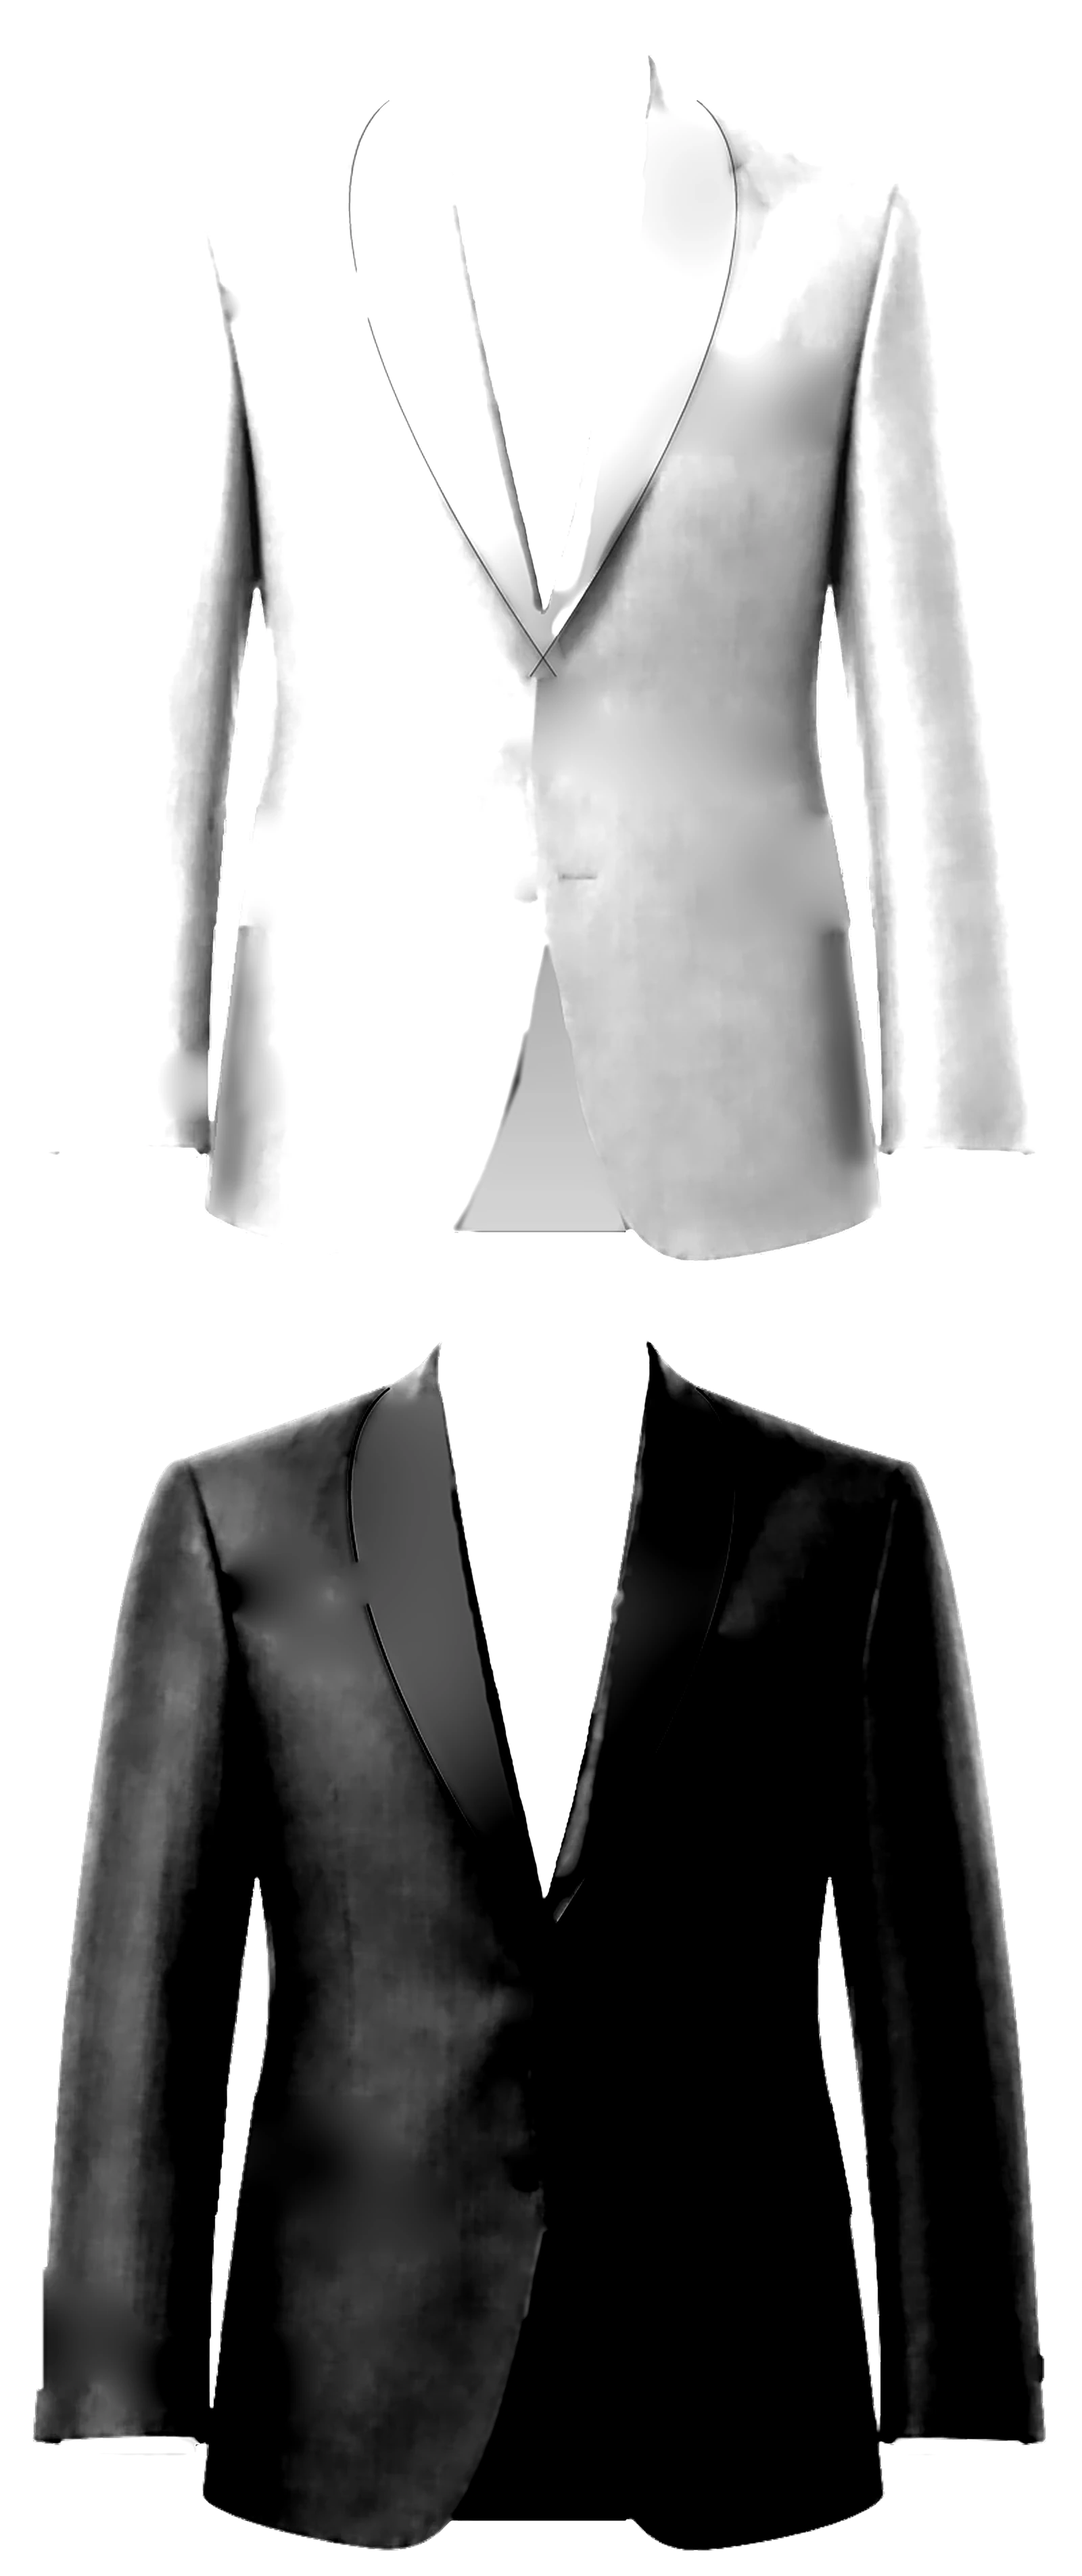
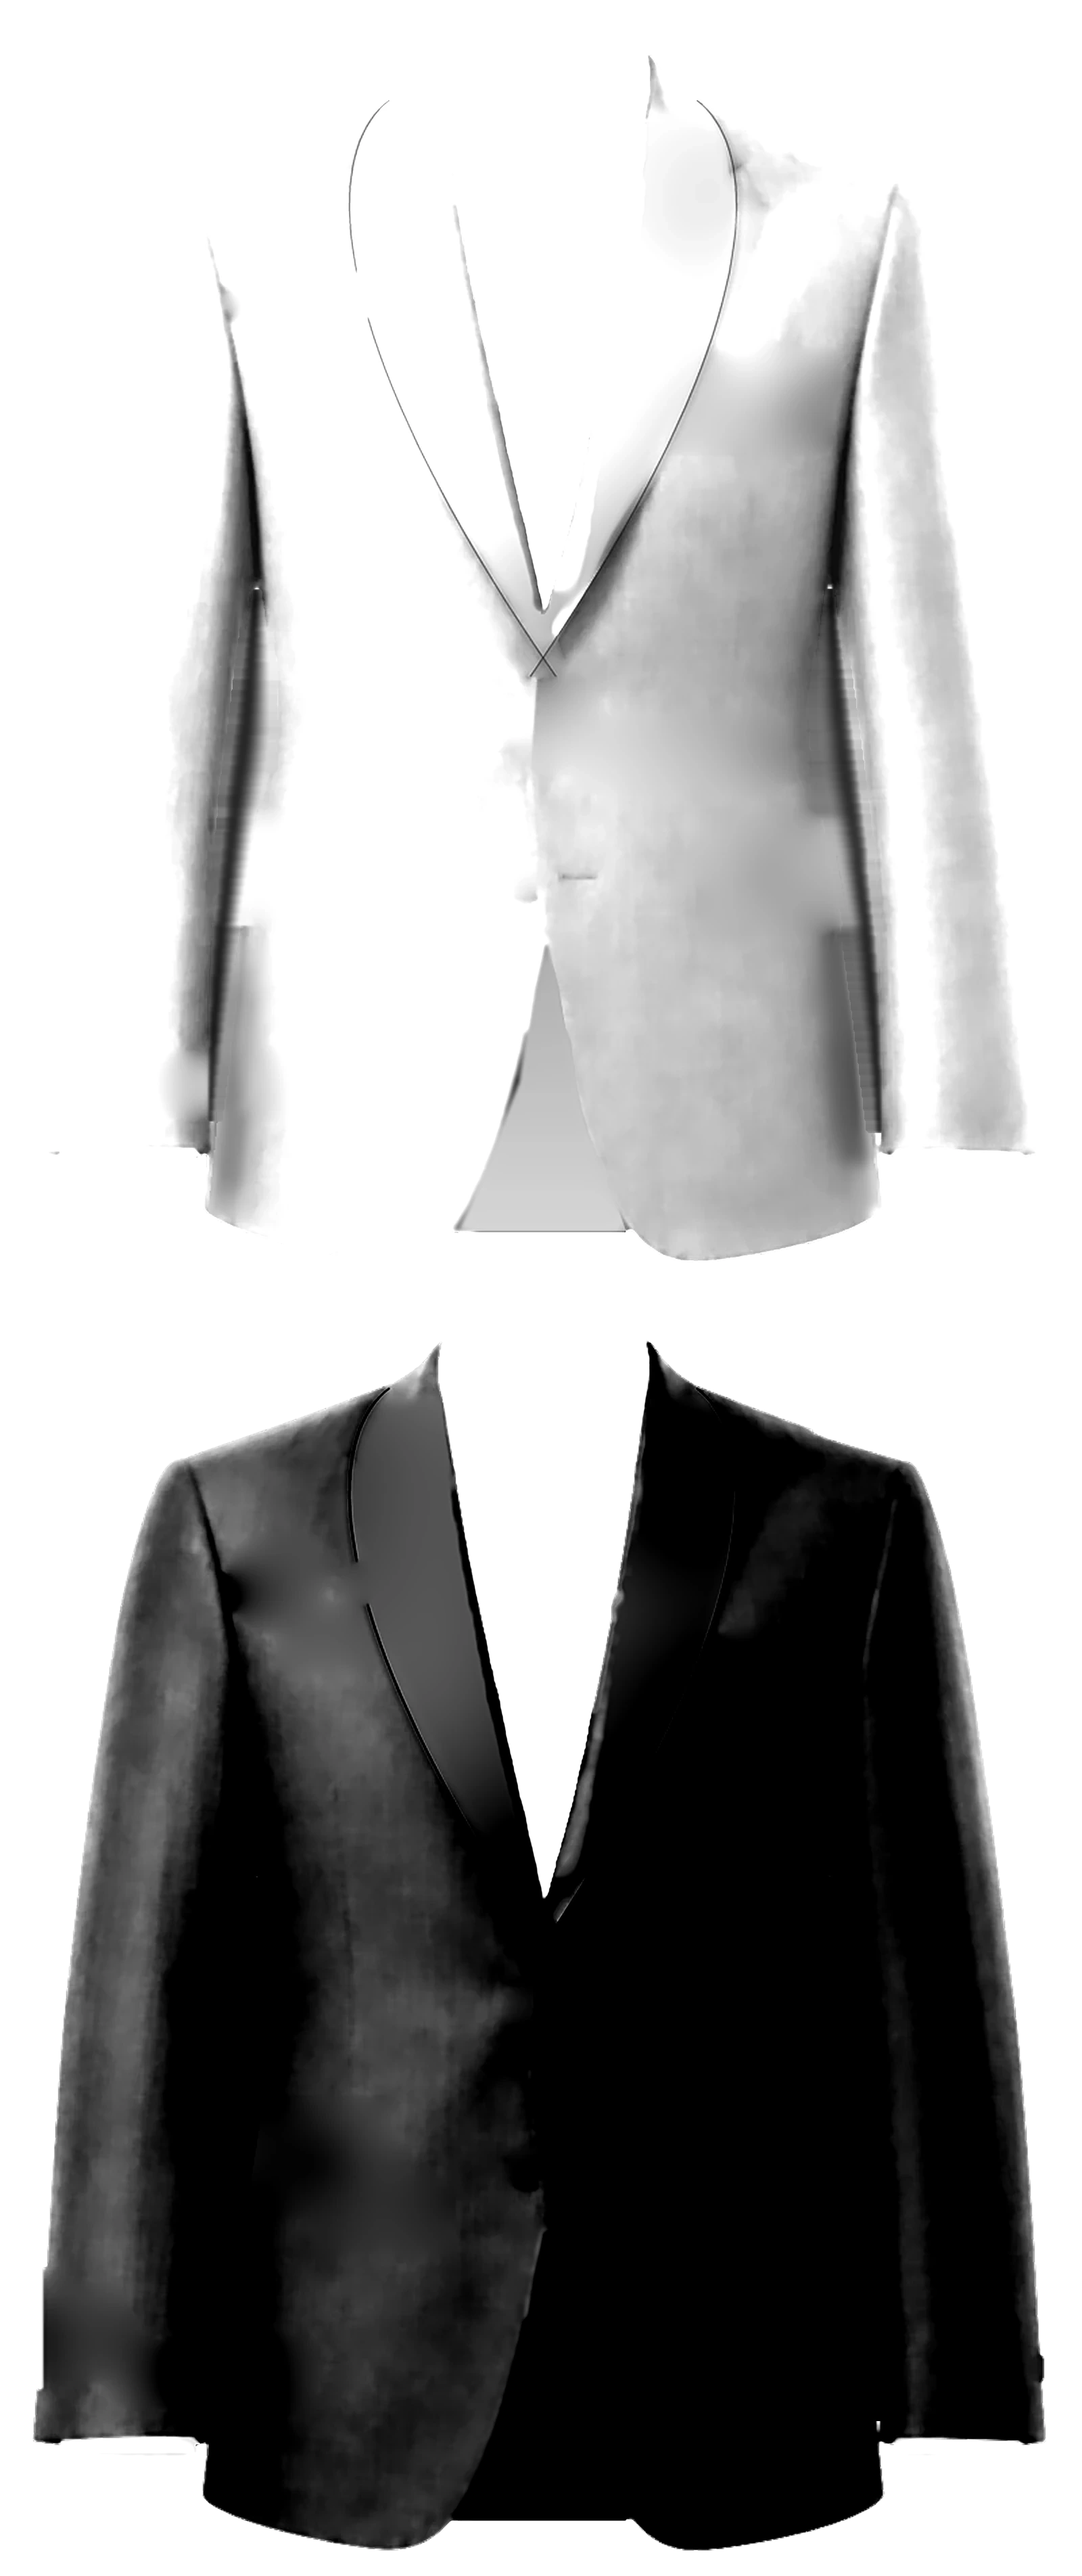
Jacket picture: lower pockets run under the sleeve, clean lapel edge (#707)
* Your Jacket picture: folded pants under the jacket for suits, own pictures for pants and vest

Full suit shows the pants folded flat under the jacket (classic look until
the pants are designed, then belt loops, back pocket and cuff follow the
picks). Three-piece adds a classic buttoned vest that only follows the
fabric. Pants Only and Vest Only get their own picture. The small picture
now also shows on the Pants and Vest pages.

Claude-Session: https://claude.ai/code/session_01Y2WUq5hqaJTnuw3wxrj3PD

* Your Jacket picture: clean back and inside views

Back and inside views stay inside a tidied outline: no wisps under the
sleeve ends, a smooth hem (vent lines no longer hang below it) and a
rounded neck with the collar running into the shoulder seams. No floating
shirt collar outline from behind. The pants band only gets a backdrop on
the front view, so back and inside have no box behind the pants.

Claude-Session: https://claude.ai/code/session_01Y2WUq5hqaJTnuw3wxrj3PD

* Your Jacket picture: back and inside views built from Daniel's reference photos

Back: scripts/make_jacket_photo_back.py turns the back reference into a base
photo (shirt collar and cuffs) and two cloth shadings (with the photo's side
vents, and with them painted out for no vent / centre vent). Sleeve buttons
are painted out and drawn from the customer's picks.
Inside: scripts/make_jacket_photo_inside.py does the same for the inside
[…]

diff --git a/jacket-studio.js b/jacket-studio.js
@@ -43,20 +43,20 @@
   const MODE_KEY = "scottSuitsDesignMode";
   const reduceMotion = window.matchMedia && window.matchMedia("(prefers-reduced-motion: reduce)").matches;
   const PHOTO = "./assets/jacket-photo-front.webp?v=17";
-  const SHADE = { front: "./assets/jacket-photo-shade-front.webp?v=17", back: "./assets/jacket-photo-shade-back.webp?v=16" };
+  const SHADE = { front: "./assets/jacket-photo-shade-front.webp?v=18", back: "./assets/jacket-photo-shade-back.webp?v=16" };
   // The photo has notch lapels; the other styles have their own front shading
   // with the lapels redrawn (scripts/make_jacket_photo.py).
   const SHADE_LAPEL = {
-    "Peak Lapel": "./assets/jacket-photo-shade-front-peak.webp?v=14",
-    "Semi-Peak Lapel": "./assets/jacket-photo-shade-front-peak.webp?v=14",
-    "Diamond Lapel": "./assets/jacket-photo-shade-front-diamond.webp?v=14",
-    "Shawl": "./assets/jacket-photo-shade-front-shawl.webp?v=14",
-    "Arc Lapel": "./assets/jacket-photo-shade-front-shawl.webp?v=14",
+    "Peak Lapel": "./assets/jacket-photo-shade-front-peak.webp?v=15",
+    "Semi-Peak Lapel": "./assets/jacket-photo-shade-front-peak.webp?v=15",
+    "Diamond Lapel": "./assets/jacket-photo-shade-front-diamond.webp?v=15",
+    "Shawl": "./assets/jacket-photo-shade-front-shawl.webp?v=15",
+    "Arc Lapel": "./assets/jacket-photo-shade-front-shawl.webp?v=15",
   };
   // Double breasted fronts use their own photo (peak lapels, the front
   // crossing over; scripts/make_jacket_photo_db.py).
   const PHOTO_ARC = "./assets/jacket-photo-front-arc.webp?v=15";
-  const SHADE_ARC = "./assets/jacket-photo-shade-front-arc-photo.webp?v=17";
+  const SHADE_ARC = "./assets/jacket-photo-shade-front-arc-photo.webp?v=18";
   // The lining seen in the Arc photo's opening below the second button (in
   // picture space; scripts/make_jacket_photo_arc.py LINING, mapped).
   // The same opening on the main photo (traced from its shading).
@@ -76,16 +76,24 @@
     sb: [[520, 200, 603], [560, 196, 607], [600, 188, 613], [640, 181, 621], [680, 175, 629], [720, 170, 632], [760, 165, 638], [800, 161, 642]],
     arc: [[520, 217, 580], [560, 211, 586], [600, 204, 593], [640, 198, 598], [680, 193, 602], [720, 190, 607], [760, 187, 611], [800, 184, 615]],
   };
+  // The sleeve's inner edge on the same rows. The sliver between the body and
+  // the sleeve is cloth in shadow (scripts/patch_front_shading.py), so the
+  // pockets run on across it and stop under the sleeve.
+  const SLEEVE_SIDES = {
+    sb: [[520, 177, 626.5], [560, 171.5, 631.5], [600, 167, 636.5], [640, 163.5, 640.5], [680, 160, 644.5], [720, 157, 647.5], [760, 155, 650.5], [800, 154, 651.5]],
+    db: [[520, 178, 625.5], [560, 173, 629.5], [600, 168, 634.5], [640, 163, 638.5], [680, 160, 641.5], [720, 158, 644.5], [760, 156, 647.5], [800, 155, 648.5]],
+    arc: [[520, 195.5, 602.5], [560, 194, 604.5], [600, 192, 605.5], [640, 190, 606.5], [680, 189, 607.5], [720, 189, 608], [760, 187, 611], [800, 184, 615]],
+  };
   // Where the chest meets the sleeve on the viewer's right: [y, x].
   const CHEST_SIDE = {
     sb: [[220, 642], [300, 634], [380, 620]],
     arc: [[220, 610], [300, 601], [380, 593]],
   };
-  const SHADE_DB = "./assets/jacket-photo-shade-front-db.webp?v=12";
+  const SHADE_DB = "./assets/jacket-photo-shade-front-db.webp?v=13";
   const SHADE_DB_LAPEL = {
-    "Diamond Lapel": "./assets/jacket-photo-shade-front-db-diamond.webp?v=12",
-    "Shawl": "./assets/jacket-photo-shade-front-db-shawl.webp?v=12",
-    "Arc Lapel": "./assets/jacket-photo-shade-front-db-shawl.webp?v=12",
+    "Diamond Lapel": "./assets/jacket-photo-shade-front-db-diamond.webp?v=13",
+    "Shawl": "./assets/jacket-photo-shade-front-db-shawl.webp?v=13",
+    "Arc Lapel": "./assets/jacket-photo-shade-front-db-shawl.webp?v=13",
   };
   const isDB = (v) => /^Double/.test(String(v.frontbutton || ""));
   // One fabric tile (two swatches, ~16 cm of cloth) in picture pixels.
@@ -898,12 +906,8 @@
     // chosen lining shows there the same way, on top of the cloth shading.
     if (!db && !arc && showLining) openingLining(SB_OPENING, 330, 690, 470, 912);
 
-    // The lapel's outer edge where the mockup's labels were painted out
-    // (diamond and shawl lapels have their own edge in their shading).
-    if (!db && v.collar !== "Diamond Lapel" && v.collar !== "Shawl" && v.collar !== "Arc Lapel") {
-      line(g, [[541, 196], [482, 338]], "rgba(0,0,0,0.32)", 1.3);
-      line(g, [[539.5, 196], [480.5, 338]], "rgba(255,255,255,0.07)", 0.9);
-    }
+    // The lapel's outer edge beside the chest pocket is in the shading itself
+    // (scripts/patch_front_shading.py); no line is drawn over it.
 
     // Lapel width.
     const lapF = lapelFactor(v), lapS = lapelSides(v, db, arc);
@@ -975,8 +979,11 @@
     // front. Each one runs from the front out past the side of the body and
     // is cut off where the body turns away under the sleeve.
     const sides = BODY_SIDES[arcFront ? "arc" : "sb"];
-    let bodyD = "M" + sides.map((r) => r[1] + "," + r[0]).join(" L");
-    bodyD += " L" + sides.slice().reverse().map((r) => r[2] + "," + r[0]).join(" L") + " Z";
+    // Daniel 2026-11-22: "this got cut". The pocket no longer stops at the
+    // body's side: it carries on under the sleeve.
+    const sleeves = SLEEVE_SIDES[arcFront ? "arc" : db ? "db" : "sb"];
+    let bodyD = "M" + sleeves.map((r) => r[1] + "," + r[0]).join(" L");
+    bodyD += " L" + sleeves.slice().reverse().map((r) => r[2] + "," + r[0]).join(" L") + " Z";
     onCloth(g, (g) => {
       g.save();
       g.clip(new Path2D(bodyD));
@@ -1036,11 +1043,16 @@
         g.globalCompositeOperation = "source-atop";
         const TURN = 34;
         for (let y = 540; y < 800; y += 4) {
-          [[lerpRows(sides, y + 2, 1), 1], [lerpRows(sides, y + 2, 2), -1]].forEach((q) => {
-            const gr = g.createLinearGradient(q[0], 0, q[0] + q[1] * TURN, 0);
-            gr.addColorStop(0, "rgba(0,0,0,0.42)"); gr.addColorStop(0.45, "rgba(0,0,0,0.16)"); gr.addColorStop(1, "rgba(0,0,0,0)");
+          // From under the sleeve, across the side of the body, fading out
+          // toward the front.
+          [[lerpRows(sleeves, y + 2, 1), lerpRows(sides, y + 2, 1), 1], [lerpRows(sleeves, y + 2, 2), lerpRows(sides, y + 2, 2), -1]].forEach((q) => {
+            const from = q[0] - q[2] * 2, to = q[1] + q[2] * TURN, len = Math.abs(to - from);
+            const tb = Math.min(0.9, Math.abs(q[1] - from) / len);
+            const gr = g.createLinearGradient(from, 0, to, 0);
+            gr.addColorStop(0, "rgba(0,0,0,0.42)"); gr.addColorStop(tb, "rgba(0,0,0,0.42)");
+            gr.addColorStop(tb + (1 - tb) * 0.45, "rgba(0,0,0,0.16)"); gr.addColorStop(1, "rgba(0,0,0,0)");
             g.fillStyle = gr;
-            g.fillRect(Math.min(q[0], q[0] + q[1] * TURN), y, TURN, 4.2);
+            g.fillRect(Math.min(from, to), y, len, 4.2);
           });
         }
         g.globalCompositeOperation = "source-over";

diff --git a/index.html b/index.html
@@ -1360,7 +1360,7 @@
 <!-- Your Jacket peek: a small read-only picture of the jacket beside the
      Jacket questions; tap to see it big (Daniel, 2026-11-19). The old
      clickable "Interactive Jacket" mode is no longer offered. -->
-<script src="./jacket-studio.js?v=20261122tieedge"></script>
+<script src="./jacket-studio.js?v=20261122sleevelapel"></script>
 
 </body>
 </html>

diff --git a/scripts/patch_front_shading.py b/scripts/patch_front_shading.py
@@ -1,0 +1,162 @@
+"""Two repairs to the front shading maps, run AFTER make_jacket_photo*.py and
+crisp_jacket_shading.py, once per rebuild (a second run finds nothing left
+to do). It rewrites the maps in place.
+
+1. The sliver between the body and each sleeve. Daniel 2026-11-22, on a
+   zoomed lower flap pocket: "this got cut". The lower pockets run back
+   round the side (his rule: they start from the back, never whole from the
+   front), but on the photo a thin lens of backdrop shows between the body
+   and the hanging sleeve from the elbow to the cuff, so the pocket stopped
+   dead at that lens and looked chopped off. The lens is filled as cloth in
+   deep shadow (the sleeve resting against the body, as on his 2026-11-22
+   front reference photo), so the pocket runs on under the sleeve. Prints
+   the sleeve's inner edge per row for SLEEVE_SIDES in jacket-studio.js.
+
+2. The lapel's edge beside the chest pocket. Daniel 2026-11-22: "Fix lapel".
+   Where the mockup's chest pocket was painted out, the shadow under the
+   lapel's edge was painted out with it: the edge stopped in a blob above
+   the pocket and started again below it, and the page drew a thin straight
+   line across the gap a few pixels off, so the edge looked doubled. The
+   edge's own shadow is now carried through the gap in the map (notch and
+   peak maps; the other lapels have their own edge), and the page draws no
+   line.
+"""
+from PIL import Image, ImageDraw, ImageFilter
+import numpy as np
+import os
+
+HERE = os.path.dirname(os.path.abspath(__file__))
+ROOT = os.path.dirname(HERE)
+NAMES = ['front', 'front-peak', 'front-diamond', 'front-shawl', 'front-db', 'front-db-diamond', 'front-db-shawl', 'front-arc-photo']
+# Where the lens can be (picture units): beside the body, elbow to cuff.
+WINDOWS = [(140, 400, 222, 842), (578, 400, 662, 842)]
+
+
+def u8(m):
+    return Image.fromarray((np.clip(m, 0, 1) * 255).astype(np.uint8))
+
+
+def close(name):
+    path = os.path.join(ROOT, 'assets', 'jacket-photo-shade-%s.webp' % name)
+    a = np.asarray(Image.open(path).convert('RGBA')).astype(np.float32)
+    H = a.shape[0] // 2; W = a.shape[1]; k = W / 800.0
+    m1 = a[:H, :, 0].copy(); m2 = a[H:, :, 0].copy(); al = a[:H, :, 3].copy() / 255
+    lens = np.zeros((H, W), bool)
+    for x0, y0, x1, y1 in WINDOWS:
+        X0, Y0, X1, Y1 = int(x0 * k), int(y0 * k), int(x1 * k), int(y1 * k)
+        hole = al[Y0:Y1, X0:X1] < 0.5
+        # Anything joined to the window's border is the real backdrop, not the lens.
+        im = u8(hole.astype(np.float32))
+        w, h = im.size
+        for x in range(w):
+            for y in (0, h - 1):
+                if im.getpixel((x, y)) == 255: ImageDraw.floodfill(im, (x, y), 100)
+        for y in range(h):
+            for x in (0, w - 1):
+                if im.getpixel((x, y)) == 255: ImageDraw.floodfill(im, (x, y), 100)
+        lens[Y0:Y1, X0:X1] = np.asarray(im) == 255
+    if lens.sum() < 50:
+        print(name, 'nothing to fill'); return None
+    # The lens and the soft edges beside it.
+    grow = int(round(2 * k))
+    zone = np.asarray(u8(lens.astype(np.float32)).filter(ImageFilter.MaxFilter(2 * grow + 1))) > 127
+    # The soft rim of the cloth either side of the lens was part see-through
+    # (it faded into the backdrop); it is solid cloth now.
+    rim = np.asarray(u8(lens.astype(np.float32)).filter(ImageFilter.MaxFilter(2 * int(round(6 * k)) + 1))) > 127
+    al0 = al.copy()
+    rows = {}
+    for y in np.where(zone.any(1))[0]:
+        for half in (slice(0, W // 2), slice(W // 2, W)):
+            xs = np.where(zone[y, half])[0]
+            if not len(xs): continue
+            xa, xb = xs[0] + half.start, xs[-1] + half.start
+            pad = int(round(3 * k))
+            # The cloth's rim either side of the lens caught the backdrop's
+            # light (a pale line once the lens is cloth): bring each rim down
+            # to the cloth a little further in.
+            R = int(round(5 * k)); F = int(round(4 * k))
+            ref_l = float(np.median(m1[y, xa - R - F:xa - R])); ref_r = float(np.median(m1[y, xb + 1 + R:xb + 1 + R + F]))
+            m1[y, xa - R:xa] = np.minimum(m1[y, xa - R:xa], ref_l); m2[y, xa - R:xa] = 0
+            m1[y, xb + 1:xb + 1 + R] = np.minimum(m1[y, xb + 1:xb + 1 + R], ref_r); m2[y, xb + 1:xb + 1 + R] = 0
+            vl = m1[y, max(0, xa - pad):xa].mean() if xa > pad else 120.0
+            vr = m1[y, xb + 1:xb + 1 + pad].mean()
+            t = np.linspace(0, 1, xb - xa + 1)
+            # Body side to sleeve edge, sinking into shadow in between: the
+            # sleeve lies on top, so the shadow is deepest close under its
+            # edge (the sleeve is the outer side of each lens).
+            wd = (xb - xa + 1) / k
+            deep = 0.72 * min(1.0, wd / 9.0)
+            ts = t if half.start else 1 - t
+            m1[y, xa:xb + 1] = (vl + (vr - vl) * t) * (1 - deep * np.sin(np.pi * ts ** 1.7))
+            m2[y, xa:xb + 1] = 0
+            al[y, xa:xb + 1] = 1
+            if half.start == 0: rows.setdefault(int(y), [None, None])[0] = xa / k
+            else: rows.setdefault(int(y), [None, None])[1] = (xb + 1) / k
+    # Smooth the fill down the rows (each row was filled on its own).
+    sm = np.asarray(Image.fromarray(np.clip(m1, 0, 255).astype(np.uint8)).filter(ImageFilter.GaussianBlur(1.2 * k / 2))).astype(np.float32)
+    m1 = np.where(zone, sm, m1)
+    al = np.where(rim & (al0 > 0.04), 1.0, al)
+    out = np.concatenate([np.dstack([m1, m1, m1, al * 255]), np.dstack([m2, m2, m2, al * 255])], 0)
+    Image.fromarray(np.clip(out, 0, 255).astype(np.uint8), 'RGBA').save(path, quality=92, method=6)
+    ys = sorted(rows)
+    print(name, 'filled px', int(lens.sum()), 'rows %d..%d' % (ys[0] / k, ys[-1] / k))
+    return rows, k
+
+
+def lapel_edge(name):
+    """Carry the lapel edge's shadow through the painted-out stretch."""
+    path = os.path.join(ROOT, 'assets', 'jacket-photo-shade-%s.webp' % name)
+    a = np.asarray(Image.open(path).convert('RGBA')).astype(np.float32)
+    H = a.shape[0] // 2; W = a.shape[1]; k = W / 800.0
+    m1 = a[:H, :, 0].copy()
+
+    def darkest(y, guess, span=7):
+        row = m1[int(y * k)]
+        x0 = int((guess - span) * k); x1 = int((guess + span) * k)
+        return (x0 + int(np.argmin(row[x0:x1]))) / k, float(row[x0:x1].min())
+
+    # The edge above the gap (around y 226) and below it (around y 346).
+    top = [darkest(y, 548 - (y - 192) * 0.42) for y in (214, 220, 226)]
+    bot = [darkest(y, 485 - (y - 342) * 0.45) for y in (344, 348, 352)]
+    xa, xb = float(np.mean([t[0] for t in top])), float(np.mean([t[0] for t in bot]))
+    ya, yb = 220.0, 348.0
+    mid = darkest(294, xa + (xb - xa) * (294 - ya) / (yb - ya), 4)
+    if mid[1] < 150:
+        print(name, 'lapel edge already whole'); return
+    depth = float(np.mean([t[1] for t in top] + [t[1] for t in bot]))
+    yy, xx = np.mgrid[int(226 * k):int(346 * k), int(440 * k):int(580 * k)].astype(np.float32)
+    yy /= k; xx /= k
+    ex = xa + (xb - xa) * (yy - ya) / (yb - ya)
+    d = xx - ex
+    sub = m1[int(226 * k):int(346 * k), int(440 * k):int(580 * k)]
+    # The blob where the old shadow stopped, and whatever is left of it: the
+    # plain cloth either side of the edge, meeting at the edge.
+    left = np.median(sub[(d > -16) & (d < -9)]); right = np.median(sub[(d > 9) & (d < 16)])
+    flat = left + (right - left) * np.clip((d + 1.2) / 2.4, 0, 1)
+    near = np.clip((9 - np.abs(d)) / 3, 0, 1)
+    # Fade the repair in at both ends so it joins the photo's own edge.
+    ends = np.clip((yy - 228) / 8, 0, 1) * np.clip((344 - yy) / 8, 0, 1)
+    base = sub * (1 - near * ends) + flat * near * ends
+    # The shadow under the edge: as dark and as wide as the photo's.
+    line = np.exp(-0.5 * (d / 1.7) ** 2)
+    target = depth + (base - depth) * 0  # the shadow's darkest level
+    out = base * (1 - line * ends) + np.minimum(base, target) * line * ends
+    m1[int(226 * k):int(346 * k), int(440 * k):int(580 * k)] = out
+    a[:H, :, 0] = a[:H, :, 1] = a[:H, :, 2] = m1
+    Image.fromarray(np.clip(a, 0, 255).astype(np.uint8), 'RGBA').save(path, quality=92, method=6)
+    print(name, 'lapel edge carried from (%.1f, %d) to (%.1f, %d), level %d' % (xa, ya, xb, yb, depth))
+
+
+if __name__ == '__main__':
+    for n in ('front', 'front-peak'):
+        lapel_edge(n)
+    for n in NAMES:
+        r = close(n)
+        if r and n in ('front', 'front-arc-photo'):
+            rows, k = r
+            pts = []
+            for y in range(520, 801, 40):
+                c = [v for yy, v in rows.items() if abs(yy / k - y) < 1.5]
+                l = [v[0] for v in c if v[0] is not None]; rr = [v[1] for v in c if v[1] is not None]
+                pts.append([y, round(float(np.mean(l)), 1) if l else None, round(float(np.mean(rr)), 1) if rr else None])
+            print('  SLEEVE_SIDES', n, pts)
